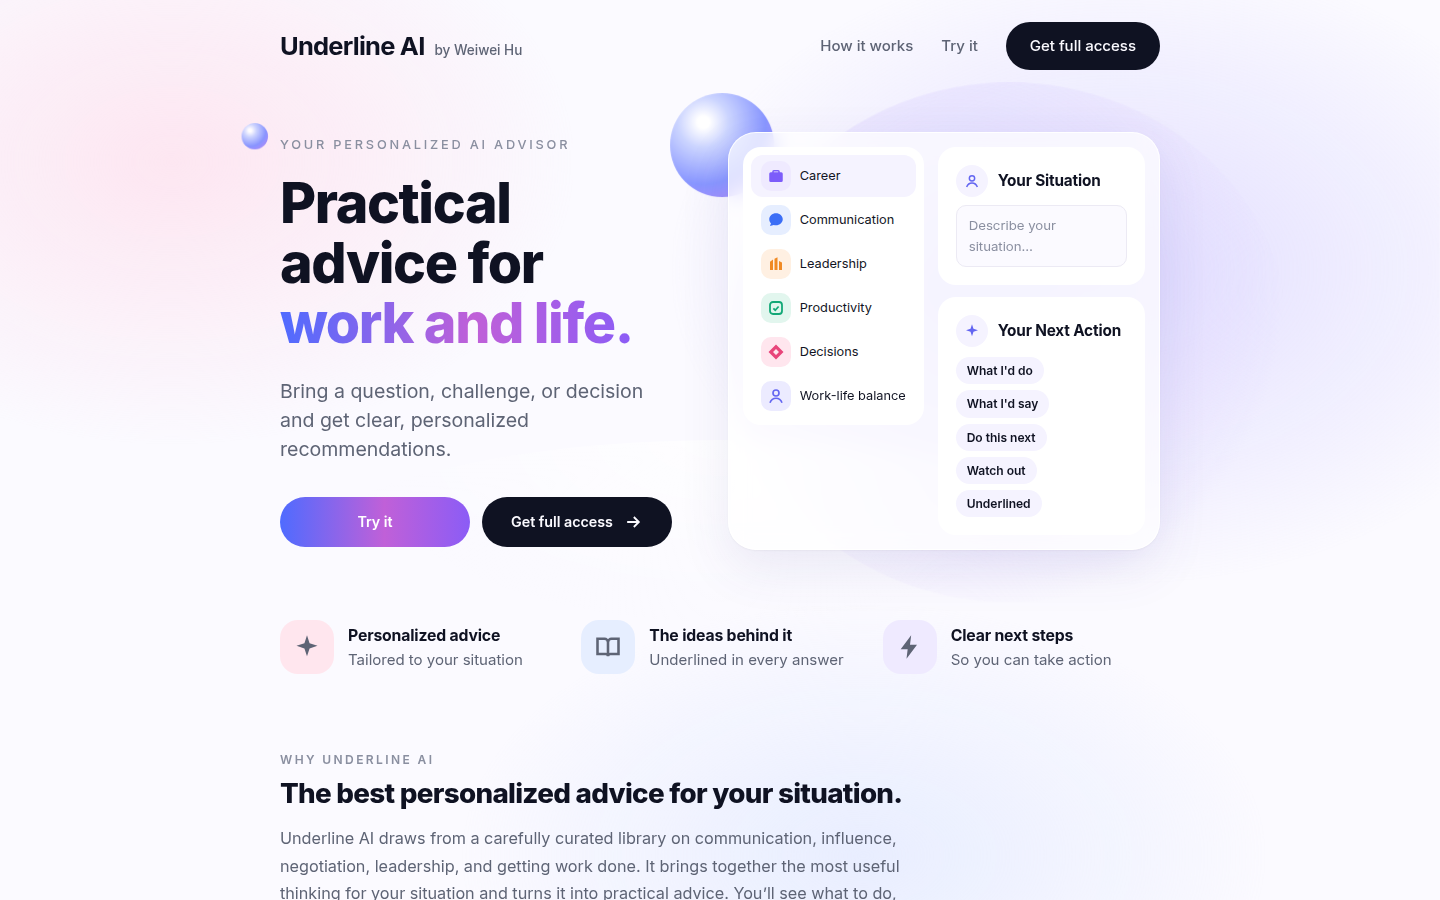
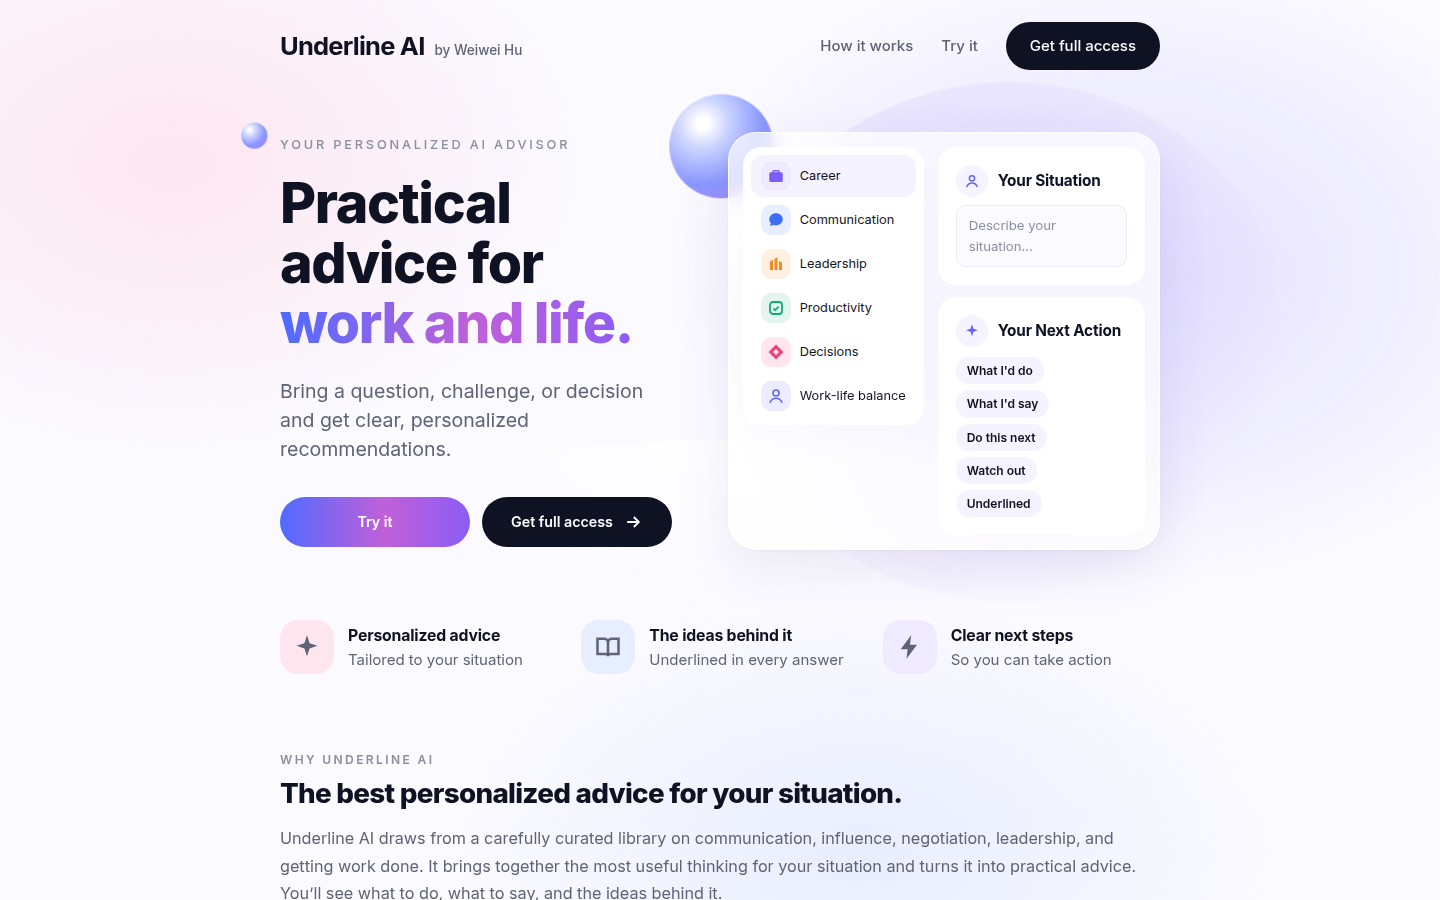
Why Underline AI paragraph uses the full width
Claude-Session: https://claude.ai/code/session_01N7N6w9NyR9iyFeuC71Pzud

Changed region(s): [[0.1875, 0.9022, 0.7812, 1.0]]

diff --git a/index.html b/index.html
@@ -113,7 +113,7 @@ nav.top{display:flex;align-items:center;justify-content:space-between;gap:16px;p
 section.block{padding:56px 0 0}
 .kicker{font-size:.8rem;letter-spacing:.2em;text-transform:uppercase;color:var(--faint);font-weight:600;margin:0 0 10px}
 .block h2{font-size:clamp(1.8rem,3.6vw,2.6rem);font-weight:800;margin-bottom:24px}
-.vlead{margin:0;max-width:62ch;font-size:1.08rem;color:var(--soft);line-height:1.7}
+.vlead{margin:0;font-size:1.08rem;color:var(--soft);line-height:1.7}
 .value h2{margin-bottom:16px!important}
 .steps{display:grid;grid-template-columns:repeat(3,minmax(0,1fr));gap:18px;list-style:none;margin:0;padding:0}
 .steps li{background:var(--card);border-radius:var(--r);box-shadow:var(--shadow);padding:24px}
